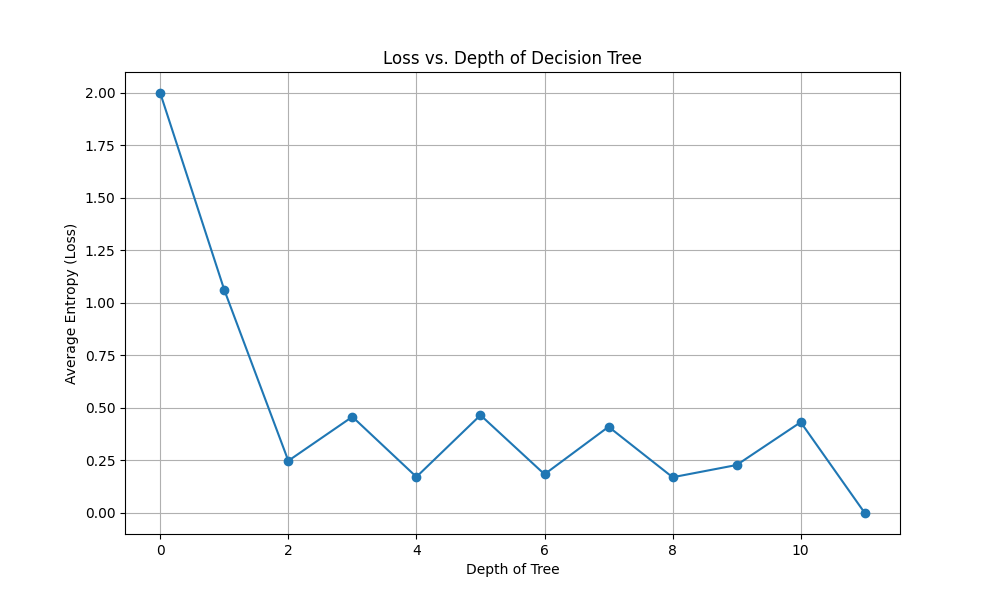
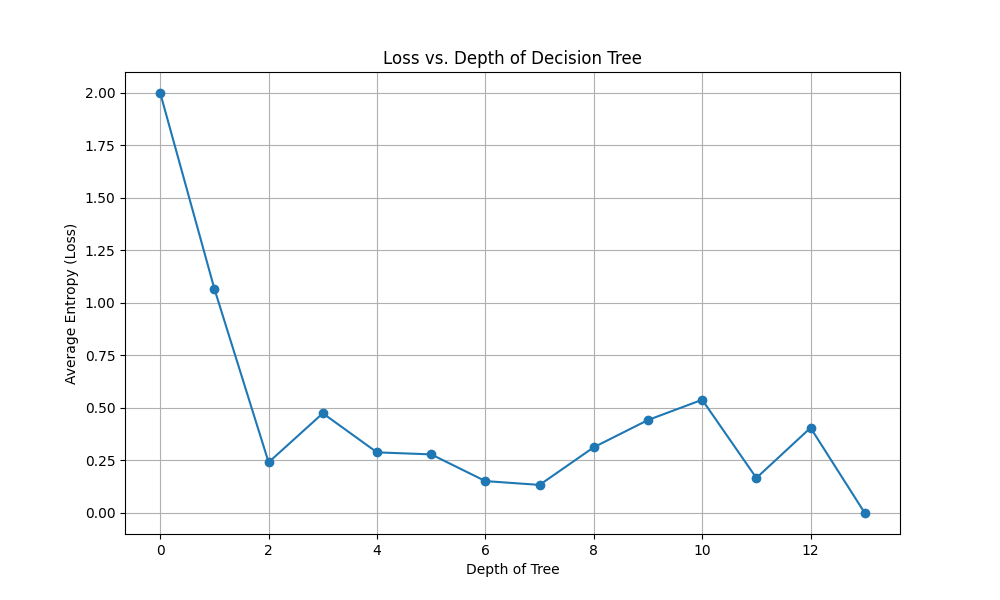
push

diff --git a/test.py b/test.py
@@ -4,29 +4,13 @@ import matplotlib.pyplot as plt
 class DecisionTreeModel:
 
 # Initialization and basic utility methods:
-    def __init__(self, dataset_path, train_ratio=0.8, folds=10, depth_limit=None):
+    def __init__(self, dataset_path, folds=10, depth_limit=None):
         self.dataset_path = dataset_path
-        self.train_ratio = train_ratio
         self.folds = folds
         self.depth_limit = depth_limit
         self.full_dataset = np.loadtxt(self.dataset_path)
-        self.training_dataset, self.test_dataset = self.split_dataset(self.full_dataset, self.train_ratio)
         self.node_dictionary = {}
         self.entropy_values = []
-
-
-    def split_dataset(self, dataset, train_ratio=0.8):
-
-        np.random.seed(7000)
-    
-        np.random.shuffle(dataset)
-
-        split_idx = int(len(dataset) * train_ratio)
-
-        training_data = dataset[:split_idx]
-        test_data = dataset[split_idx:]
-
-        return training_data, test_data                               
 
 
 # Core decision tree building and prediction methods:
@@ -46,65 +30,54 @@ class DecisionTreeModel:
         best_threshold, best_feature = None, None
 
         for col in range(features.shape[1]):
-            unique_values = np.unique(features[:, col])
+            sorted_indices = np.argsort(features[:, col])
+            sorted_features, sorted_labels = features[sorted_indices, col], labels[sorted_indices]
             
-            if len(unique_values) == 1:
-                continue
-            
-            prev_value = None
-            for value in unique_values:
-                current_threshold = value if prev_value is None else (value + prev_value) / 2
-                
-                labels_below_threshold = labels[features[:, col] <= current_threshold]
-                labels_above_threshold = labels[features[:, col] > current_threshold]
+            labels_below = []
+            labels_above = sorted_labels.tolist()
 
-                p_below = len(labels_below_threshold) / len(labels)
-                p_above = len(labels_above_threshold) / len(labels)
+            for idx in range(len(sorted_features) - 1):
+                labels_below.append(sorted_labels[idx])
+                labels_above.remove(sorted_labels[idx])
 
-                weighted_entropy = (p_below * self.calculate_entropy(labels_below_threshold) +
-                                    p_above * self.calculate_entropy(labels_above_threshold))
+                if sorted_features[idx] == sorted_features[idx + 1]:
+                    continue
+
+                p_below = len(labels_below) / len(labels)
+                p_above = len(labels_above) / len(labels)
+
+                weighted_entropy = (p_below * self.calculate_entropy(np.array(labels_below)) +
+                                    p_above * self.calculate_entropy(np.array(labels_above)))
 
                 IG = total_entropy - weighted_entropy
 
                 if IG > max_IG:
                     max_IG = IG
-                    best_threshold = current_threshold
+                    best_threshold = (sorted_features[idx] + sorted_features[idx + 1]) / 2
                     best_feature = col
-
-                prev_value = value
 
         return best_feature, best_threshold
 
-
     def find_split(self, dataset):
         best_feature, threshold = self.get_best_feature_and_threshold(dataset)
-
-        sorted_indices = np.argsort(dataset[:, best_feature])
-        sorted_dataset = dataset[sorted_indices]
-
-        split_index = np.searchsorted(sorted_dataset[:, best_feature], threshold, side='right')
-        splitL, splitR = sorted_dataset[:split_index], sorted_dataset[split_index:]
-
-        return threshold, best_feature, splitL, splitR
-
+        return threshold, best_feature, dataset[dataset[:, best_feature] <= threshold], dataset[dataset[:, best_feature] > threshold]
 
     def decision_tree_learning(self, training_dataset, current_depth, depth_limit, entropy_values=[]):
         current_entropy = self.calculate_entropy(training_dataset[:, -1])
         entropy_values.append((current_depth, current_entropy))
 
+        if len(np.unique(training_dataset[:, -1])) == 1:
+            label_value = int(training_dataset[0, -1])
+            return {f'R {label_value}': [None, label_value, None, None]}, current_depth
+
         if depth_limit is not None and current_depth == depth_limit:
             most_common_label = int(np.bincount(training_dataset[:, -1].astype(int)).argmax())
             return {f'R {most_common_label}': [None, most_common_label, None, None]}, current_depth
 
-        if len(np.unique(training_dataset[:, -1])) == 1:
-            label_value = int(training_dataset[0, -1])
-            return {f'R {label_value}': [None, label_value, None, None]}, current_depth + 1
+        best_threshold, best_feature, l_dataset, r_dataset = self.find_split(training_dataset)
+        newVal = f"X{best_feature} < {best_threshold}"
 
-        best_threshold, best_emitter, l_dataset, r_dataset = self.find_split(training_dataset)
-
-        newVal = f"X{best_emitter} < {best_threshold}"
-
-        tmpTree = {newVal: [best_emitter, best_threshold, "l_branch", "r_branch"]}
+        tmpTree = {newVal: [best_feature, best_threshold, "l_branch", "r_branch"]}
 
         l_branch, l_depth = self.decision_tree_learning(l_dataset, current_depth + 1, depth_limit, entropy_values)
         r_branch, r_depth = self.decision_tree_learning(r_dataset, current_depth + 1, depth_limit, entropy_values)
@@ -116,31 +89,27 @@ class DecisionTreeModel:
         return tmpTree, max(l_depth, r_depth)
 
 
-    def predict_room_number(self, data, tree):
-
-        current_node = next(iter(tree))
-
-        while True:
-            feature, threshold, left, right = tree[current_node]
-            
-            if left is None and right is None:
-                label = threshold
-                return label
-
-            if data[feature] < threshold:
-                current_node = left
-            else:
-                current_node = right
-
 
     def run_model(self, dataset, tree):
 
-        predicted_labels = [-1] * len(dataset)
+        def get_class(data):
+            current_node = next(iter(tree))
 
-        for i in range(len(dataset)):
-            predicted_labels[i] = self.predict_room_number(dataset[i], tree)
+            while True:
+                feature, threshold, left, right = tree[current_node]
+
+                if left is None and right is None:
+                    return threshold
+
+                if data[feature] < threshold:
+                    current_node = left
+                else:
+                    current_node = right
+
+        predicted_labels = [get_class(data) for data in dataset]
 
         return np.array(predicted_labels)
+
 
 
 # Evaluation and metrics computation methods:
@@ -191,6 +160,8 @@ class DecisionTreeModel:
 
         confusion_matrix = np.zeros((4, 4))
 
+        total_accuracy_of_all_trees = 0
+
         for i in range(folds):
             test_data = dataset[i * fold_size : (i + 1) * fold_size]
             
@@ -203,14 +174,17 @@ class DecisionTreeModel:
             predicted_labels = self.run_model(test_data[:, :-1], node_dictionary)
             true_labels = test_data[:, -1]
 
+            total_accuracy_of_all_trees += self.evaluate(test_data, node_dictionary)
+
             for j in range(len(true_labels)):
                 actual = int(true_labels[j]) - 1
                 predicted = int(predicted_labels[j]) - 1
                 confusion_matrix[actual][predicted] += 1
 
         final_confusion_matrix = np.round(confusion_matrix / folds).astype(int)
+        average_accuracy = float(total_accuracy_of_all_trees) / folds
 
-        return np.array(final_confusion_matrix)
+        return np.array(final_confusion_matrix), average_accuracy
 
 
     def compute_accuracy(self, confusion_matrix):
@@ -316,17 +290,17 @@ class DecisionTreeModel:
 # Driver method:
     def run(self):
         entropy_values = []
-        tmp_dictionary, max_depth_achieved = self.decision_tree_learning(self.training_dataset, current_depth=0, depth_limit=self.depth_limit, entropy_values=entropy_values)
+        tmp_dictionary, max_depth_achieved = self.decision_tree_learning(self.full_dataset, current_depth=0, depth_limit=self.depth_limit, entropy_values=entropy_values)
         self.node_dictionary.update(tmp_dictionary)
 
         print('Model Maximum Depth: ', max_depth_achieved)
         
-        model_accuracy = self.evaluate(self.test_dataset, self.node_dictionary)
+        model_accuracy = self.evaluate(self.full_dataset, self.node_dictionary)
         print('Model Accuracy: ', model_accuracy)
 
-        confusion_matrix = self.run_cross_validation(self.full_dataset)
+        confusion_matrix, average_accuracy = self.run_cross_validation(self.full_dataset)
         algorithm_accuracy = self.compute_accuracy(confusion_matrix)
-        print('Algorithm Accuracy: ', algorithm_accuracy)
+        print('Algorithm Accuracy: ', algorithm_accuracy, ' ', average_accuracy)
 
         self.compute_metrics(confusion_matrix)
 
@@ -341,5 +315,5 @@ class DecisionTreeModel:
 # Main script execution:
 if __name__ == '__main__':
     dataset_path='wifi_db/clean_dataset.txt'
-    model = DecisionTreeModel(dataset_path, train_ratio=0.8, folds=10, depth_limit=None)
+    model = DecisionTreeModel(dataset_path, folds=10, depth_limit=None)
     model.run()

diff --git a/tempCodeRunnerFile.py b/tempCodeRunnerFile.py
@@ -1,5 +1,35 @@
-# Main script execution:
-if __name__ == '__main__':
-    dataset_path='wifi_db/clean_dataset.txt'
-    model = DecisionTreeModel(dataset_path, train_ratio=0.8, folds=10)
-    model.run()
+    def get_best_feature_and_threshold(self, dataset):
+        features, labels = dataset[:, :-1], dataset[:, -1]
+        total_entropy = self.calculate_entropy(labels)
+        max_IG = float('-inf')
+        best_threshold, best_feature = None, None
+
+        for col in range(features.shape[1]):
+            unique_values = sorted(np.unique(features[:, col]))
+            
+            if len(unique_values) == 1:
+                continue
+            
+            prev_value = None
+            for value in unique_values:
+                current_threshold = value if prev_value is None else (value + prev_value) / 2
+                
+                labels_below_threshold = labels[features[:, col] <= current_threshold]
+                labels_above_threshold = labels[features[:, col] > current_threshold]
+
+                p_below = len(labels_below_threshold) / len(labels)
+                p_above = len(labels_above_threshold) / len(labels)
+
+                weighted_entropy = (p_below * self.calculate_entropy(labels_below_threshold) +
+                                    p_above * self.calculate_entropy(labels_above_threshold))
+
+                IG = total_entropy - weighted_entropy
+
+                if IG > max_IG:
+                    max_IG = IG
+                    best_threshold = current_threshold
+                    best_feature = col
+
+                prev_value = value
+
+        return best_feature, best_threshold
